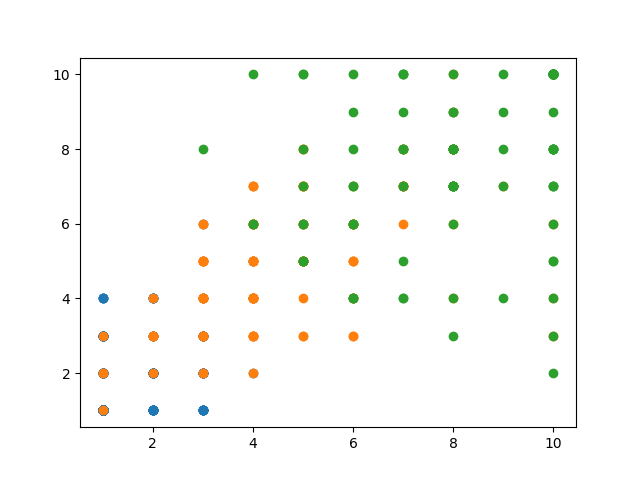
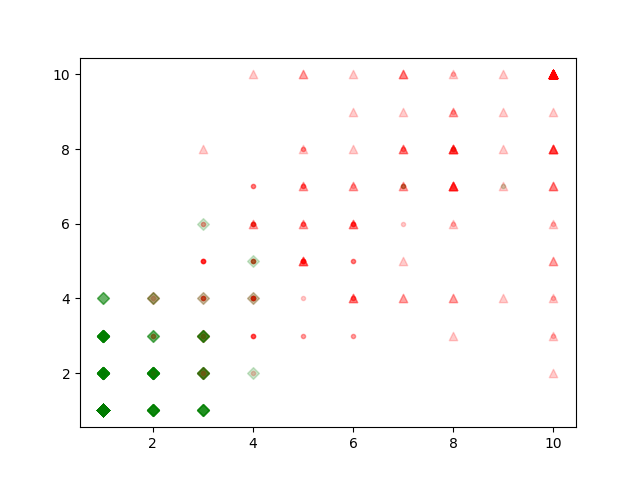
added answers

diff --git a/Homework 4/H4_1.py b/Homework 4/H4_1.py
@@ -1,5 +1,6 @@
 import math
 import numpy as np
+from scipy.stats import multivariate_normal
 
 def probXnCk(x_n, c_mean, sigma):
     res = 1/(2*math.pi)
@@ -31,78 +32,78 @@ print("---------- P( Xn | Ck = 1 ) ----------")
 XnCk = [[ 0, 0, 0, 0], [ 0, 0, 0, 0,]]
 for s, sigma in enumerate(Sigma_n):
     for i, x in enumerate(Xn):
-        XnCk[s][i] = probXnCk(x, Xn[s], sigma)
+        XnCk[s][i] = multivariate_normal(x, Xn[s], sigma)
         print(f"x{i+1} - cluster {s+1}: {XnCk[s][i]}")
 print()
 
-print("---------- P( Ck = 1 | Xn ) ----------")
-for s, cluster in enumerate(XnCk):
-    for i, x in enumerate(cluster):
-        XnCk[s][i] *= Pi_n[s]
-        print(f"x{i+1} - cluster {s+1}: {XnCk[s][i]}")
-print()
+# print("---------- P( Ck = 1 | Xn ) ----------")
+# for s, cluster in enumerate(XnCk):
+#     for i, x in enumerate(cluster):
+#         XnCk[s][i] *= Pi_n[s]
+#         print(f"x{i+1} - cluster {s+1}: {XnCk[s][i]}")
+# print()
 
-print("---------- P( Xn ) -------------------")
+# print("---------- P( Xn ) -------------------")
 
-# P_Xn = [sum(x) for x in np.transpose(XnCk)]
-P_Xn = [0]*4
-x_n = np.transpose(XnCk)
-for i, n in enumerate(x_n):
-    P_Xn[i] = sum( x_n[i] )
-    print(f"P(x{i+1}) = {P_Xn[i]}")
-print()
+# # P_Xn = [sum(x) for x in np.transpose(XnCk)]
+# P_Xn = [0]*4
+# x_n = np.transpose(XnCk)
+# for i, n in enumerate(x_n):
+#     P_Xn[i] = sum( x_n[i] )
+#     print(f"P(x{i+1}) = {P_Xn[i]}")
+# print()
 
-print("--------- Phi( Cnk ) -----------------")
-Phi_nk = XnCk
-for n, cluster in enumerate(Phi_nk):
-    for i, x in enumerate(cluster):
-        Phi_nk[n][i] /= P_Xn[i]
-        print(f"φ{i+1}{n+1} = {Phi_nk[n][i]}")
-print()
+# print("--------- Phi( Cnk ) -----------------")
+# Phi_nk = XnCk
+# for n, cluster in enumerate(Phi_nk):
+#     for i, x in enumerate(cluster):
+#         Phi_nk[n][i] /= P_Xn[i]
+#         print(f"φ{i+1}{n+1} = {Phi_nk[n][i]}")
+# print()
 
-print(" ____________________________________")
-print("|_____________ M-Step _______________|")
-print()
+# print(" ____________________________________")
+# print("|_____________ M-Step _______________|")
+# print()
 
-print("----------- N k ----------------------")
-N_k = [ sum(x) for x in Phi_nk]
-for i, el in enumerate(N_k):
-    print(f"N{i+1} = {el}")
-print()
+# print("----------- N k ----------------------")
+# N_k = [ sum(x) for x in Phi_nk]
+# for i, el in enumerate(N_k):
+#     print(f"N{i+1} = {el}")
+# print()
 
-print("----------- Mean Values --------------")
-U_k = [0, 0]
-for c in range(2):
-    sum_phi = np.array([[0], [0]])
-    for i, phi in enumerate(Phi_nk[c]):
-        # print(np.array([phi_nk]), Xn[indx])
-        phi_times_x = np.dot(phi, Xn[i])
-        sum_phi = np.add(sum_phi, phi_times_x)
-    U_k[c] = (1/N_k[c]) * sum_phi
-    print(f"New μ{c+1} = {U_k[c]}")
-print()
+# print("----------- Mean Values --------------")
+# U_k = [0, 0]
+# for c in range(2):
+#     sum_phi = np.array([[0], [0]])
+#     for i, phi in enumerate(Phi_nk[c]):
+#         # print(np.array([phi_nk]), Xn[indx])
+#         phi_times_x = np.dot(phi, Xn[i])
+#         sum_phi = np.add(sum_phi, phi_times_x)
+#     U_k[c] = (1/N_k[c]) * sum_phi
+#     print(f"New μ{c+1} = {U_k[c]}")
+# print()
 
-print("----------- Cohvariance Matrix -------")
-new_sigma_k = np.array([ np.matrix('0 0; 0 0'), np.matrix('0 0; 0 0')])
+# print("----------- Cohvariance Matrix -------")
+# new_sigma_k = np.array([ np.matrix('0 0; 0 0'), np.matrix('0 0; 0 0')])
 
-for c, sigma in enumerate(new_sigma_k):
-    for i, phi in enumerate(Phi_nk[c]):
-        tmp = np.subtract(Xn[i], U_k[c])
-        tmp = np.matmul(tmp, np.transpose(tmp)) 
-        tmp = np.dot(phi, tmp)
-        new_sigma_k[c] = np.add(tmp, new_sigma_k[c])
+# for c, sigma in enumerate(new_sigma_k):
+#     for i, phi in enumerate(Phi_nk[c]):
+#         tmp = np.subtract(Xn[i], U_k[c])
+#         tmp = np.matmul(tmp, np.transpose(tmp)) 
+#         tmp = np.dot(phi, tmp)
+#         new_sigma_k[c] = np.add(tmp, new_sigma_k[c])
     
-    new_sigma_k[c] = np.dot( (1/N_k[c]), new_sigma_k[c] )
+#     new_sigma_k[c] = np.dot( (1/N_k[c]), new_sigma_k[c] )
     
-    print(f"New Σ{c+1} = {new_sigma_k[c][0]}{new_sigma_k[c][1]}")
-print()
+#     print(f"New Σ{c+1} = {new_sigma_k[c][0]}{new_sigma_k[c][1]}")
+# print()
 
-print("----------- New Mixing Parameter -------")
-new_Pi_n = [0, 0]
+# print("----------- New Mixing Parameter -------")
+# new_Pi_n = [0, 0]
 
-for c in range(2):
-    new_Pi_n[c] = N_k[c]/len(Xn)
-    print(f"New π{c+1} = {new_Pi_n[c]}")
+# for c in range(2):
+#     new_Pi_n[c] = N_k[c]/len(Xn)
+#     print(f"New π{c+1} = {new_Pi_n[c]}")
 
 
 #1 - multivariate gausion para desenhar a elipse

diff --git a/Homework 4/H4_2.py b/Homework 4/H4_2.py
@@ -23,11 +23,13 @@ X = D_breast.drop(columns=D_breast.columns[-1]).to_numpy().astype(int)
 # Results array binarized
 Y = D_breast[D_breast.columns[-1]].replace(b'benign', 0).replace(b'malignant', 1)
 
-def Cluster(k, Y_pred):
-    cluster = np.where(Y_pred == k) [0]
-    return cluster
+
 
 def quest4():
+
+    def Cluster(k, Y_pred):
+        cluster = np.where(Y_pred == k) [0]
+        return cluster
 
     def ECR(k, Y, Y_pred):
         soma = 0
@@ -58,37 +60,35 @@ def quest4():
         sil_score = silhouette_score(X, Y_pred, random_state=SEED)
         print(f"silhouette = {sil_score}")
 
-# def 
 
 def quest5():
-    kmeans = KMeans(n_clusters=3, random_state=SEED)
+    kmeans = KMeans(n_clusters=3, random_state=0)
     kmeans = kmeans.fit(X)
     Y_pred = kmeans.predict(X)
 
-    # Extract the cluster as separate arrays
-    cluster = list()
-    for i in range(3):
-        cluster.append(Cluster(i, Y_pred))
-    
     # Get elements with only their 2 most meaningful features
     Kbest = SelectKBest(mutual_info_classif, k=2)
-    Kbest =Kbest.fit_transform(X, Y)
+    Kbest = Kbest.fit_transform(X, Y)
+    # Separate KBest by their output class
 
+    def marker(i):
+        if Y_pred[i] == 0: return "."
+        elif Y_pred[i] == 1: return "^"
+        elif Y_pred[i] == 2: return "D"
+        else: print("Bad classification")
 
-    axis_split = [  [],
-                    [],
-                    []  ]
-    # Separate best 2 features by cluster
-    for ind, cl in enumerate(cluster): 
-        axis_split[ind] = [ Kbest[i] for i in cl ]
+    def color(i):
+        if Y[i] == 0: return "green"
+        elif Y[i] == 1: return "red"
+        else: print("Data missing")
+   
+    for i, point in enumerate(Kbest):
+        plt.scatter(point[0], point[1], alpha=0.2, marker=marker(i), color=color(i))
 
-    for c in axis_split:
-        x_axis, y_axis = np.transpose(c)
-        plt.scatter( x_axis, y_axis )
+    cluster_centers = kmeans.cluster_centers_
+    print(cluster_centers)
 
     plt.savefig("graph5")
-
-
 
 
 quest4()

diff --git a/Homework 4/answers.md b/Homework 4/answers.md
@@ -1,0 +1,13 @@
+# 4
+
+a) Based on the external measure of each solution we conclude that in the solution with k=2 the clusters overall resemble less of their class than in the k=3 solution, meaning, each cluster in the k=3 solution is more adapted to a specific class.
+
+b) Based on the silhouette values of each solutions, we conclude that in the solution with k=2 the cluster are overall further apart from each other than in the k=3 solution.
+
+# 5
+
+*graph*
+
+# 6
+
+Analising the graph obtained in the previous question based on the two top features we can see that: in terms of classification, they classify reasonably well the data as benign/malignant; in terms of clustering, they don't describe a very good solution, with two of the cluster basically mescled together, working almost as a single cluster and the last one, even if clear, slightly overlapping the other group. Indicating that probably a better k (number of cluster would be k=2). 
